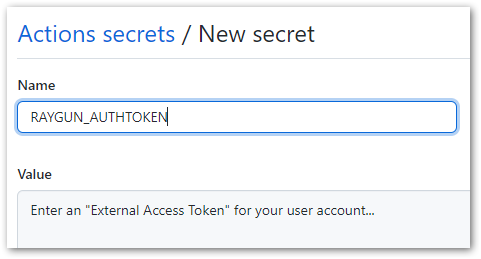
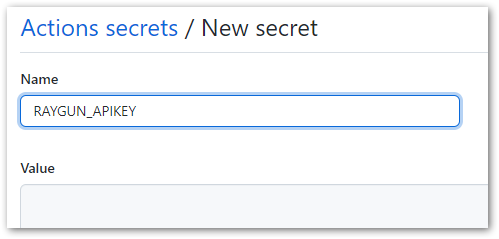
Update Raygun docs

diff --git a/web-apps/raygun-deployment-tracking.html b/web-apps/raygun-deployment-tracking.html
@@ -22,30 +22,29 @@
 <div class="wrapper">
 <a href="/"><img src="/icon.svg" alt="" width="32" height="32" /> Home</a>
 <h1 id="tracking-deployments-in-raygun">Tracking Deployments in Raygun</h1>
-<p>Raygun is an application error reporting and performance monitoring service. Though not mandatory, adding <a href="https://raygun.com/platform/deployment-tracking">deployment information to Raygun</a> enables additional features for monitoring software health. A GitHub action is available to automate this.</p>
-<p>Raygun deployment tracking correlates deployment information for application releases with version information sent with error reports.</p>
+<p>Raygun is an application error reporting and performance monitoring service. Though not mandatory, adding <a href="https://raygun.com/platform/deployment-tracking">deployment information to Raygun</a> enables additional features for monitoring software health. Raygun deployment tracking correlates application releases with the version information sent with error reports. A GitHub action is available to automate this.</p>
 <h2 id="setup">Setup</h2>
 <ol type="1">
 <li><p>To add the GitHub action to your repository, go to the “Actions” tab on the repo webpage.</p>
 <p><img src="img/github-actions-1.png" /></p></li>
-<li><p>Look for and select the “Raygun Deployment Tracking Workflow” action.</p>
+<li><p>Look for and select the “Raygun Deployment Tracking Workflow” action. (If other actions have already been added to the repo, click the “New workflow” button.)</p>
 <p><img src="img/github-actions-2.png" /></p></li>
 <li><p>Review the workflow file and update the tag version prefix if needed.</p>
 <p><img src="img/github-actions-3.png" /></p></li>
 <li><p>Click “Start commit” and update the commit message and description as desired.</p>
 <p><img src="img/github-actions-4.png" /></p></li>
-<li><p>Go to the “Settings” tab on the repo, select “Secrets”, and add two new “Actions secrets”:</p>
+<li><p>Go to the “Settings” tab on the repo, select “Secrets” in the menu, and add two new repository secrets:</p>
 <ul>
 <li><code>RAYGUN_AUTHTOKEN</code> is an “External Access Token” generated in your <a href="https://app.raygun.com/user">Raygun user account</a>.</li>
-<li><code>RAYGUN_APIKEY</code> is the API Key found in the Raygun application settings.</li>
+<li><code>RAYGUN_APIKEY</code> is the API Key for the application in Raygun.</li>
 </ul>
 <p><img src="img/github-actions-5.png" /></p></li>
 </ol>
 <h2 id="tracking-app-deployment">Tracking App Deployment</h2>
-<p>There are two steps for tracking software deployment in Raygun:</p>
+<p>There are two steps for tracking a new deployment in Raygun:</p>
 <ol type="1">
-<li><p><em>Set a version number in your application.</em> The version number is automatically sent to Raygun with each error report when an exception occurs in the application. In .NET projects, the version number can be set by specifying the <a href="https://docs.microsoft.com/en-us/troubleshoot/visualstudio/general/assembly-version-assembly-file-version"><code>AssemblyVersion</code> attribute</a> in the project file.</p></li>
-<li><p><em>Add a version tag to the repository.</em> The GitHub action above will be triggered when a new version tag is pushed to the repository. Version tags should begin with a prefix, for example, <code>prod/1.0.0</code> or <code>v/1.0.0</code>. The prefix is specified in the GitHub action, and the version number in the tag should match the application version number.</p></li>
+<li><p><em>Set a version number in your application.</em> The version number is automatically sent to Raygun with each error report. In .NET projects, the version number can be set by specifying the <a href="https://docs.microsoft.com/en-us/troubleshoot/visualstudio/general/assembly-version-assembly-file-version"><code>AssemblyVersion</code> attribute</a> in the project file.</p></li>
+<li><p><em>Add a version tag to the repository.</em> The GitHub action above will be triggered when a new version tag is pushed to the repository. Version tags should begin with a prefix, for example, <code>prod/1.0.0</code> or <code>v/1.0.0</code>. The prefix is specified in the GitHub action, and the version number in the tag should match the application version.</p></li>
 </ol>
 <p><img src="img/github-actions-7.png" /></p>
 <h2 id="results">Results</h2>

diff --git a/git/index.html b/git/index.html
@@ -36,7 +36,7 @@
 <li><a href="https://nvie.com/posts/a-successful-git-branching-model/">A successful Git branching model » nvie.com</a></li>
 </ul>
 <h2 id="gitignore-files">.gitignore files</h2>
-<p>Use these links to generate global .gitignore files. These files should be added to your user directory (<code>%userprofile%</code> on Windows) and must be named “<code>.gitignore</code>” (with no other extension).</p>
+<p>Use these links to generate global .gitignore files. These files should be added to your user directory (<code>%userprofile%</code> on Windows) and must be named <code>.gitignore</code> (with no other extension).</p>
 <ul>
 <li><a href="https://www.toptal.com/developers/gitignore/api/ssh,windows,microsoftoffice">Windows</a></li>
 <li><a href="https://www.toptal.com/developers/gitignore/api/ssh,macos,microsoftoffice">MacOS</a></li>

diff --git a/web-apps/raygun-deployment-tracking.md b/web-apps/raygun-deployment-tracking.md
@@ -1,8 +1,6 @@
 # Tracking Deployments in Raygun
 
-Raygun is an application error reporting and performance monitoring service. Though not mandatory, adding [deployment information to Raygun](https://raygun.com/platform/deployment-tracking) enables additional features for monitoring software health. A GitHub action is available to automate this.
-
-Raygun deployment tracking correlates deployment information for application releases with version information sent with error reports.
+Raygun is an application error reporting and performance monitoring service. Though not mandatory, adding [deployment information to Raygun](https://raygun.com/platform/deployment-tracking) enables additional features for monitoring software health. Raygun deployment tracking correlates application releases with the version information sent with error reports. A GitHub action is available to automate this.
 
 ## Setup
 
@@ -10,7 +8,7 @@ Raygun deployment tracking correlates deployment information for application rel
 
     ![](img/github-actions-1.png)
 
-2. Look for and select the "Raygun Deployment Tracking Workflow" action.
+2. Look for and select the "Raygun Deployment Tracking Workflow" action. (If other actions have already been added to the repo, click the "New workflow" button.)
 
     ![](img/github-actions-2.png)
 
@@ -22,20 +20,20 @@ Raygun deployment tracking correlates deployment information for application rel
 
     ![](img/github-actions-4.png)
 
-5. Go to the "Settings" tab on the repo, select "Secrets", and add two new "Actions secrets":
+5. Go to the "Settings" tab on the repo, select "Secrets" in the menu, and add two new repository secrets:
 
     * `RAYGUN_AUTHTOKEN` is an "External Access Token" generated in your [Raygun user account](https://app.raygun.com/user).
-    * `RAYGUN_APIKEY` is the API Key found in the Raygun application settings.
+    * `RAYGUN_APIKEY` is the API Key for the application in Raygun.
 
     ![](img/github-actions-5.png)
 
 ## Tracking App Deployment
 
-There are two steps for tracking software deployment in Raygun:
+There are two steps for tracking a new deployment in Raygun:
 
-1. *Set a version number in your application.* The version number is automatically sent to Raygun with each error report when an exception occurs in the application. In .NET projects, the version number can be set by specifying the [`AssemblyVersion` attribute](https://docs.microsoft.com/en-us/troubleshoot/visualstudio/general/assembly-version-assembly-file-version) in the project file.
+1. *Set a version number in your application.* The version number is automatically sent to Raygun with each error report. In .NET projects, the version number can be set by specifying the [`AssemblyVersion` attribute](https://docs.microsoft.com/en-us/troubleshoot/visualstudio/general/assembly-version-assembly-file-version) in the project file.
 
-2. *Add a version tag to the repository.* The GitHub action above will be triggered when a new version tag is pushed to the repository. Version tags should begin with a prefix, for example, `prod/1.0.0` or `v/1.0.0`. The prefix is specified in the GitHub action, and the version number in the tag should match the application version number.
+2. *Add a version tag to the repository.* The GitHub action above will be triggered when a new version tag is pushed to the repository. Version tags should begin with a prefix, for example, `prod/1.0.0` or `v/1.0.0`. The prefix is specified in the GitHub action, and the version number in the tag should match the application version.
 
 ![](img/github-actions-7.png)
 

diff --git a/git/index.md b/git/index.md
@@ -20,7 +20,7 @@ The Git DVCS is required for use with all source code, so make sure you spend so
 
 ## .gitignore files
 
-Use these links to generate global .gitignore files. These files should be added to your user directory (`%userprofile%` on Windows) and must be named "`.gitignore`" (with no other extension).
+Use these links to generate global .gitignore files. These files should be added to your user directory (`%userprofile%` on Windows) and must be named `.gitignore` (with no other extension).
 
 * [Windows](https://www.toptal.com/developers/gitignore/api/ssh,windows,microsoftoffice)
 * [MacOS](https://www.toptal.com/developers/gitignore/api/ssh,macos,microsoftoffice)
